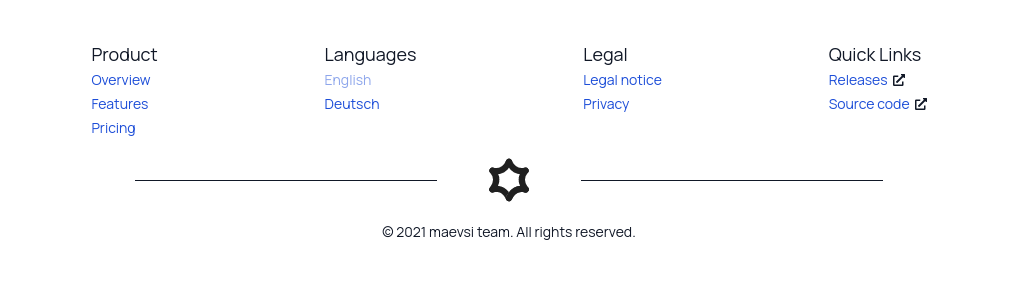
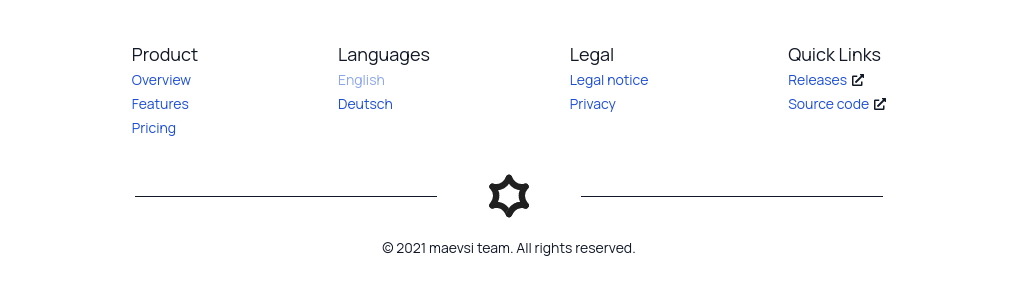
fix(footer): improve responsiveness

diff --git a/nuxt/components/Footer.vue b/nuxt/components/Footer.vue
@@ -1,6 +1,6 @@
 <template>
   <footer class="leading-6 text-sm py-8">
-    <div class="justify-around container flex mx-auto p-2">
+    <div class="container flex flex-wrap justify-evenly mx-auto p-2">
       <FooterCategory :heading="$t('product')">
         <AppLink to="/">
           {{ $t('overview') }}
@@ -64,7 +64,8 @@
         </AppLink>
       </FooterCategory>
     </div>
-    <div class="flex w-3/4 items-center m-auto p-2">
+    <div class="p-2" />
+    <div class="flex items-center mx-auto p-2 w-3/4">
       <div class="bg-gray-900 dark:bg-white h-px flex-1" />
       <LoaderImage
         :alt="$t('maevsiLogo')"

diff --git a/nuxt/components/FooterCategory.vue b/nuxt/components/FooterCategory.vue
@@ -1,6 +1,6 @@
 <template>
-  <div class="flex flex-col">
-    <span class="font-medium leading-7 text-lg">
+  <div class="flex flex-col px-4">
+    <span class="font-medium leading-7 text-lg whitespace-nowrap">
       {{ heading }}
     </span>
     <slot />
